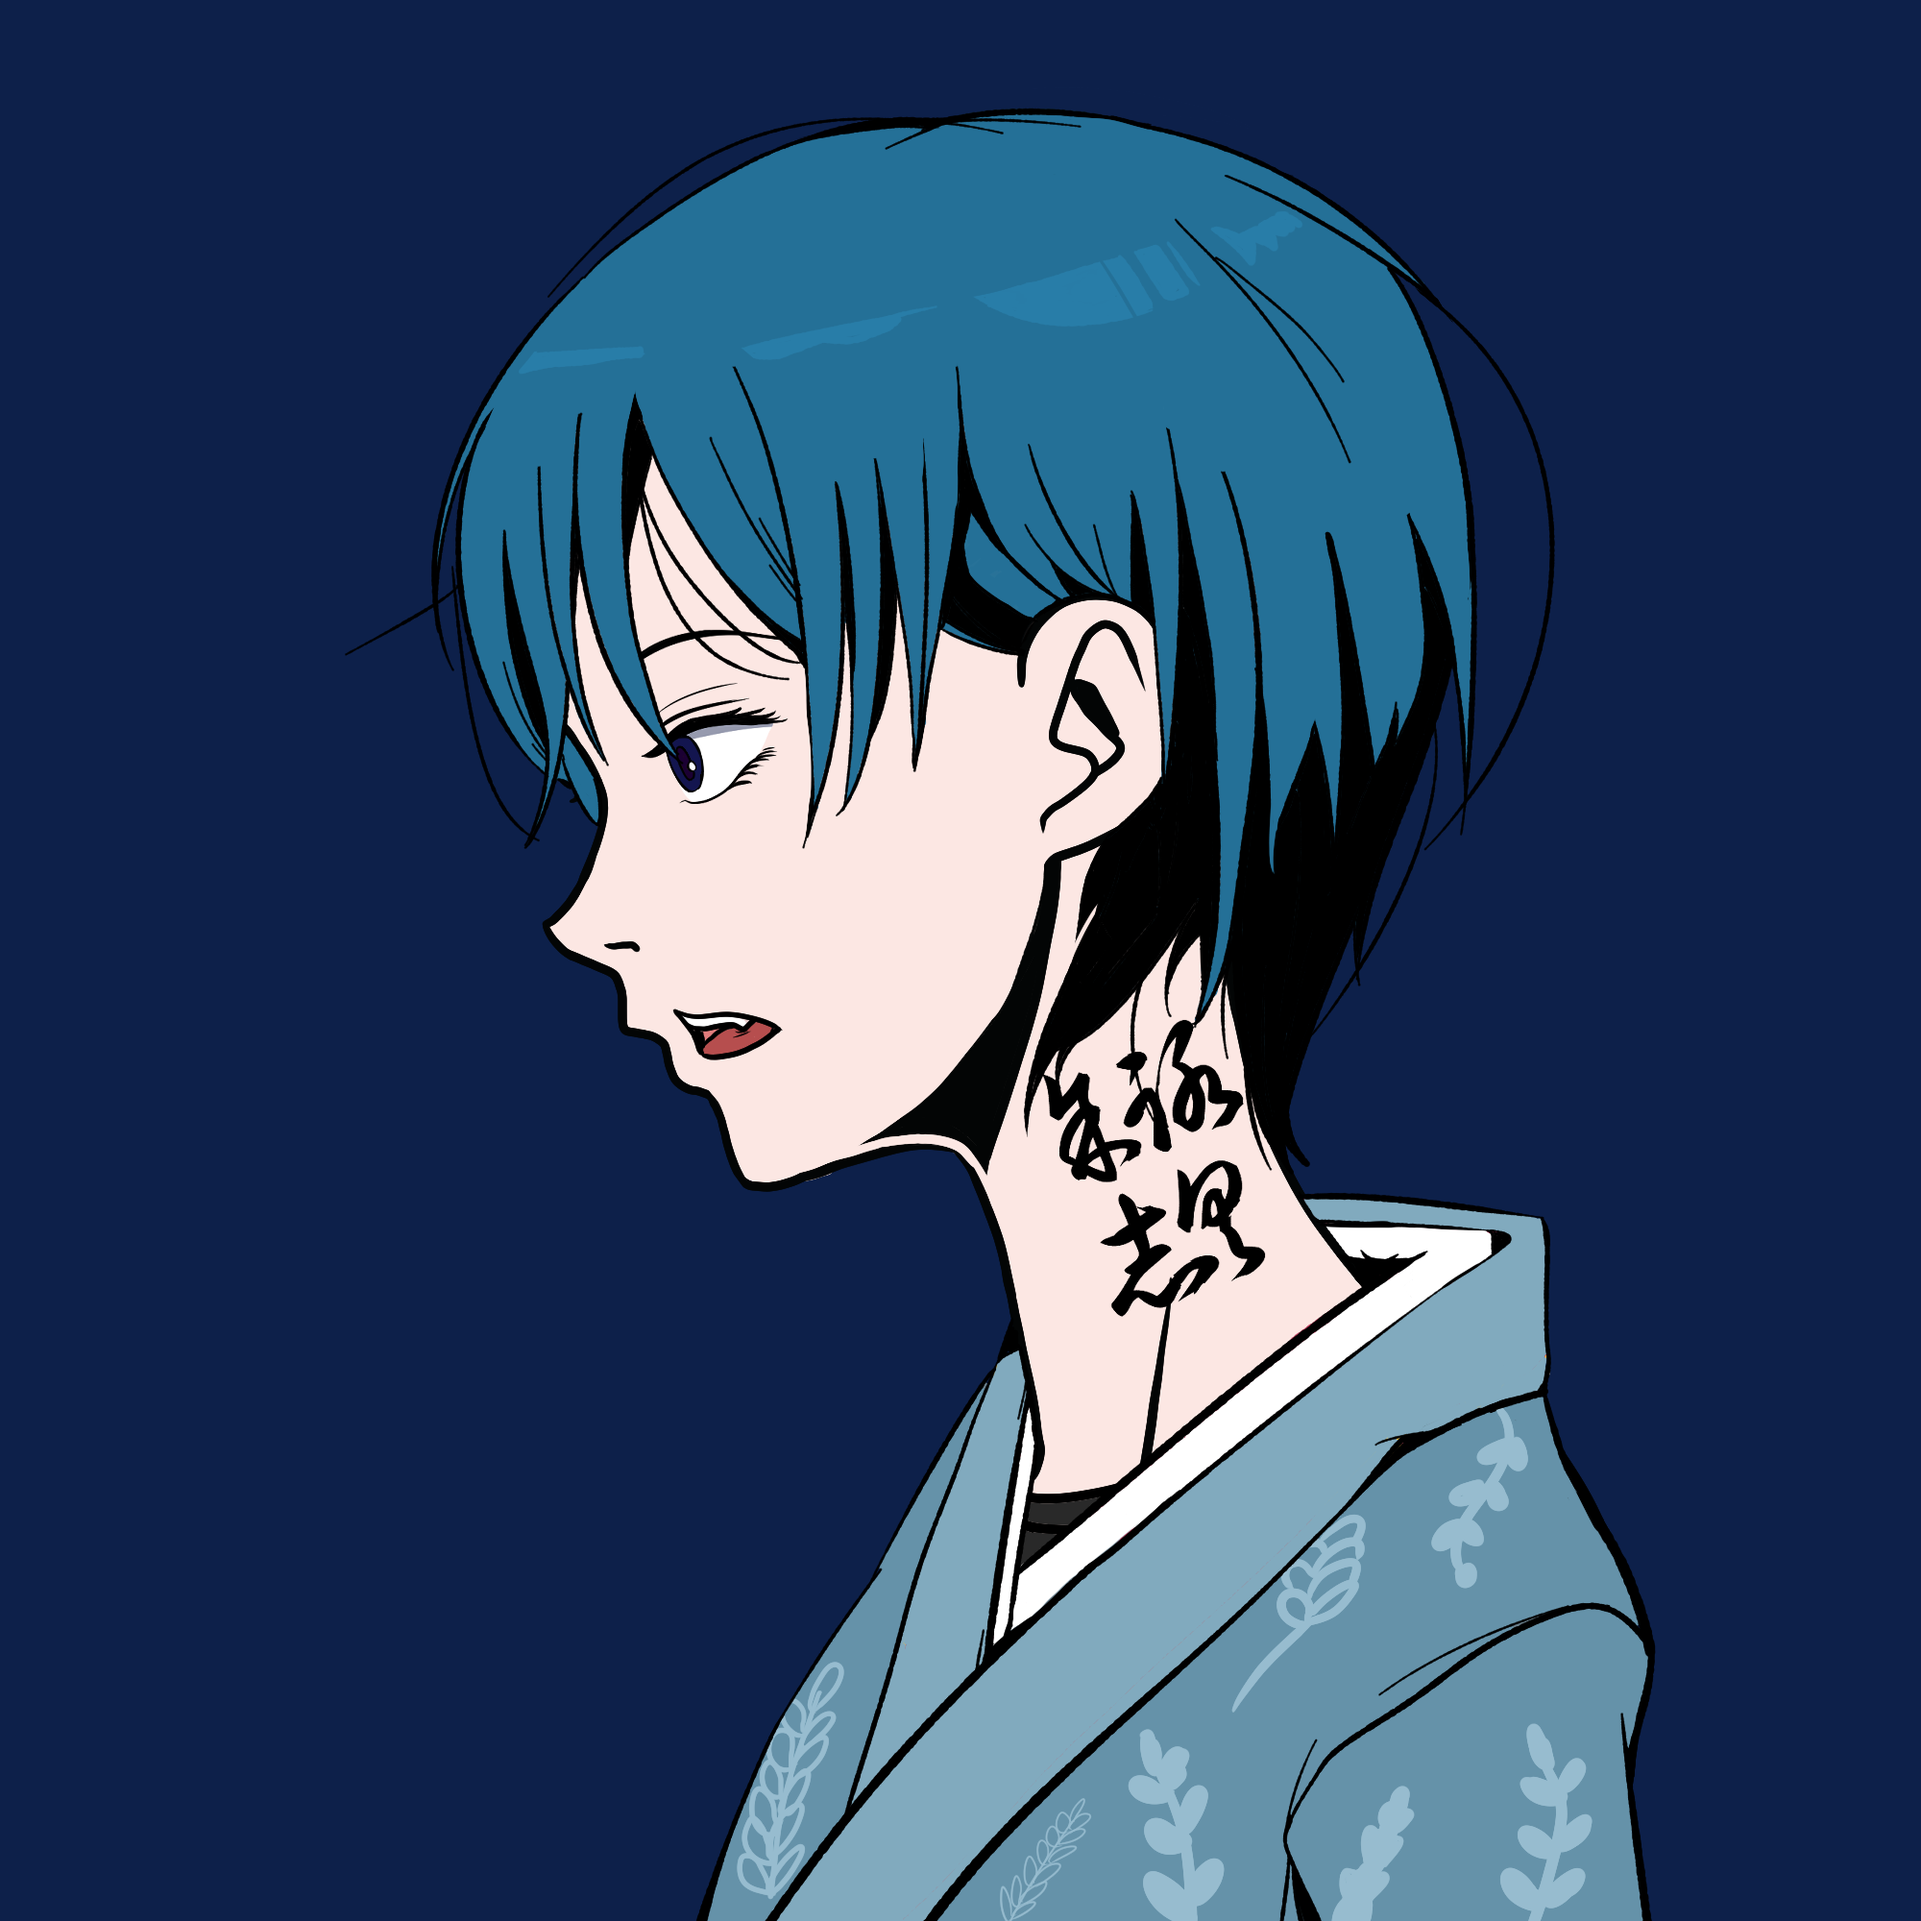
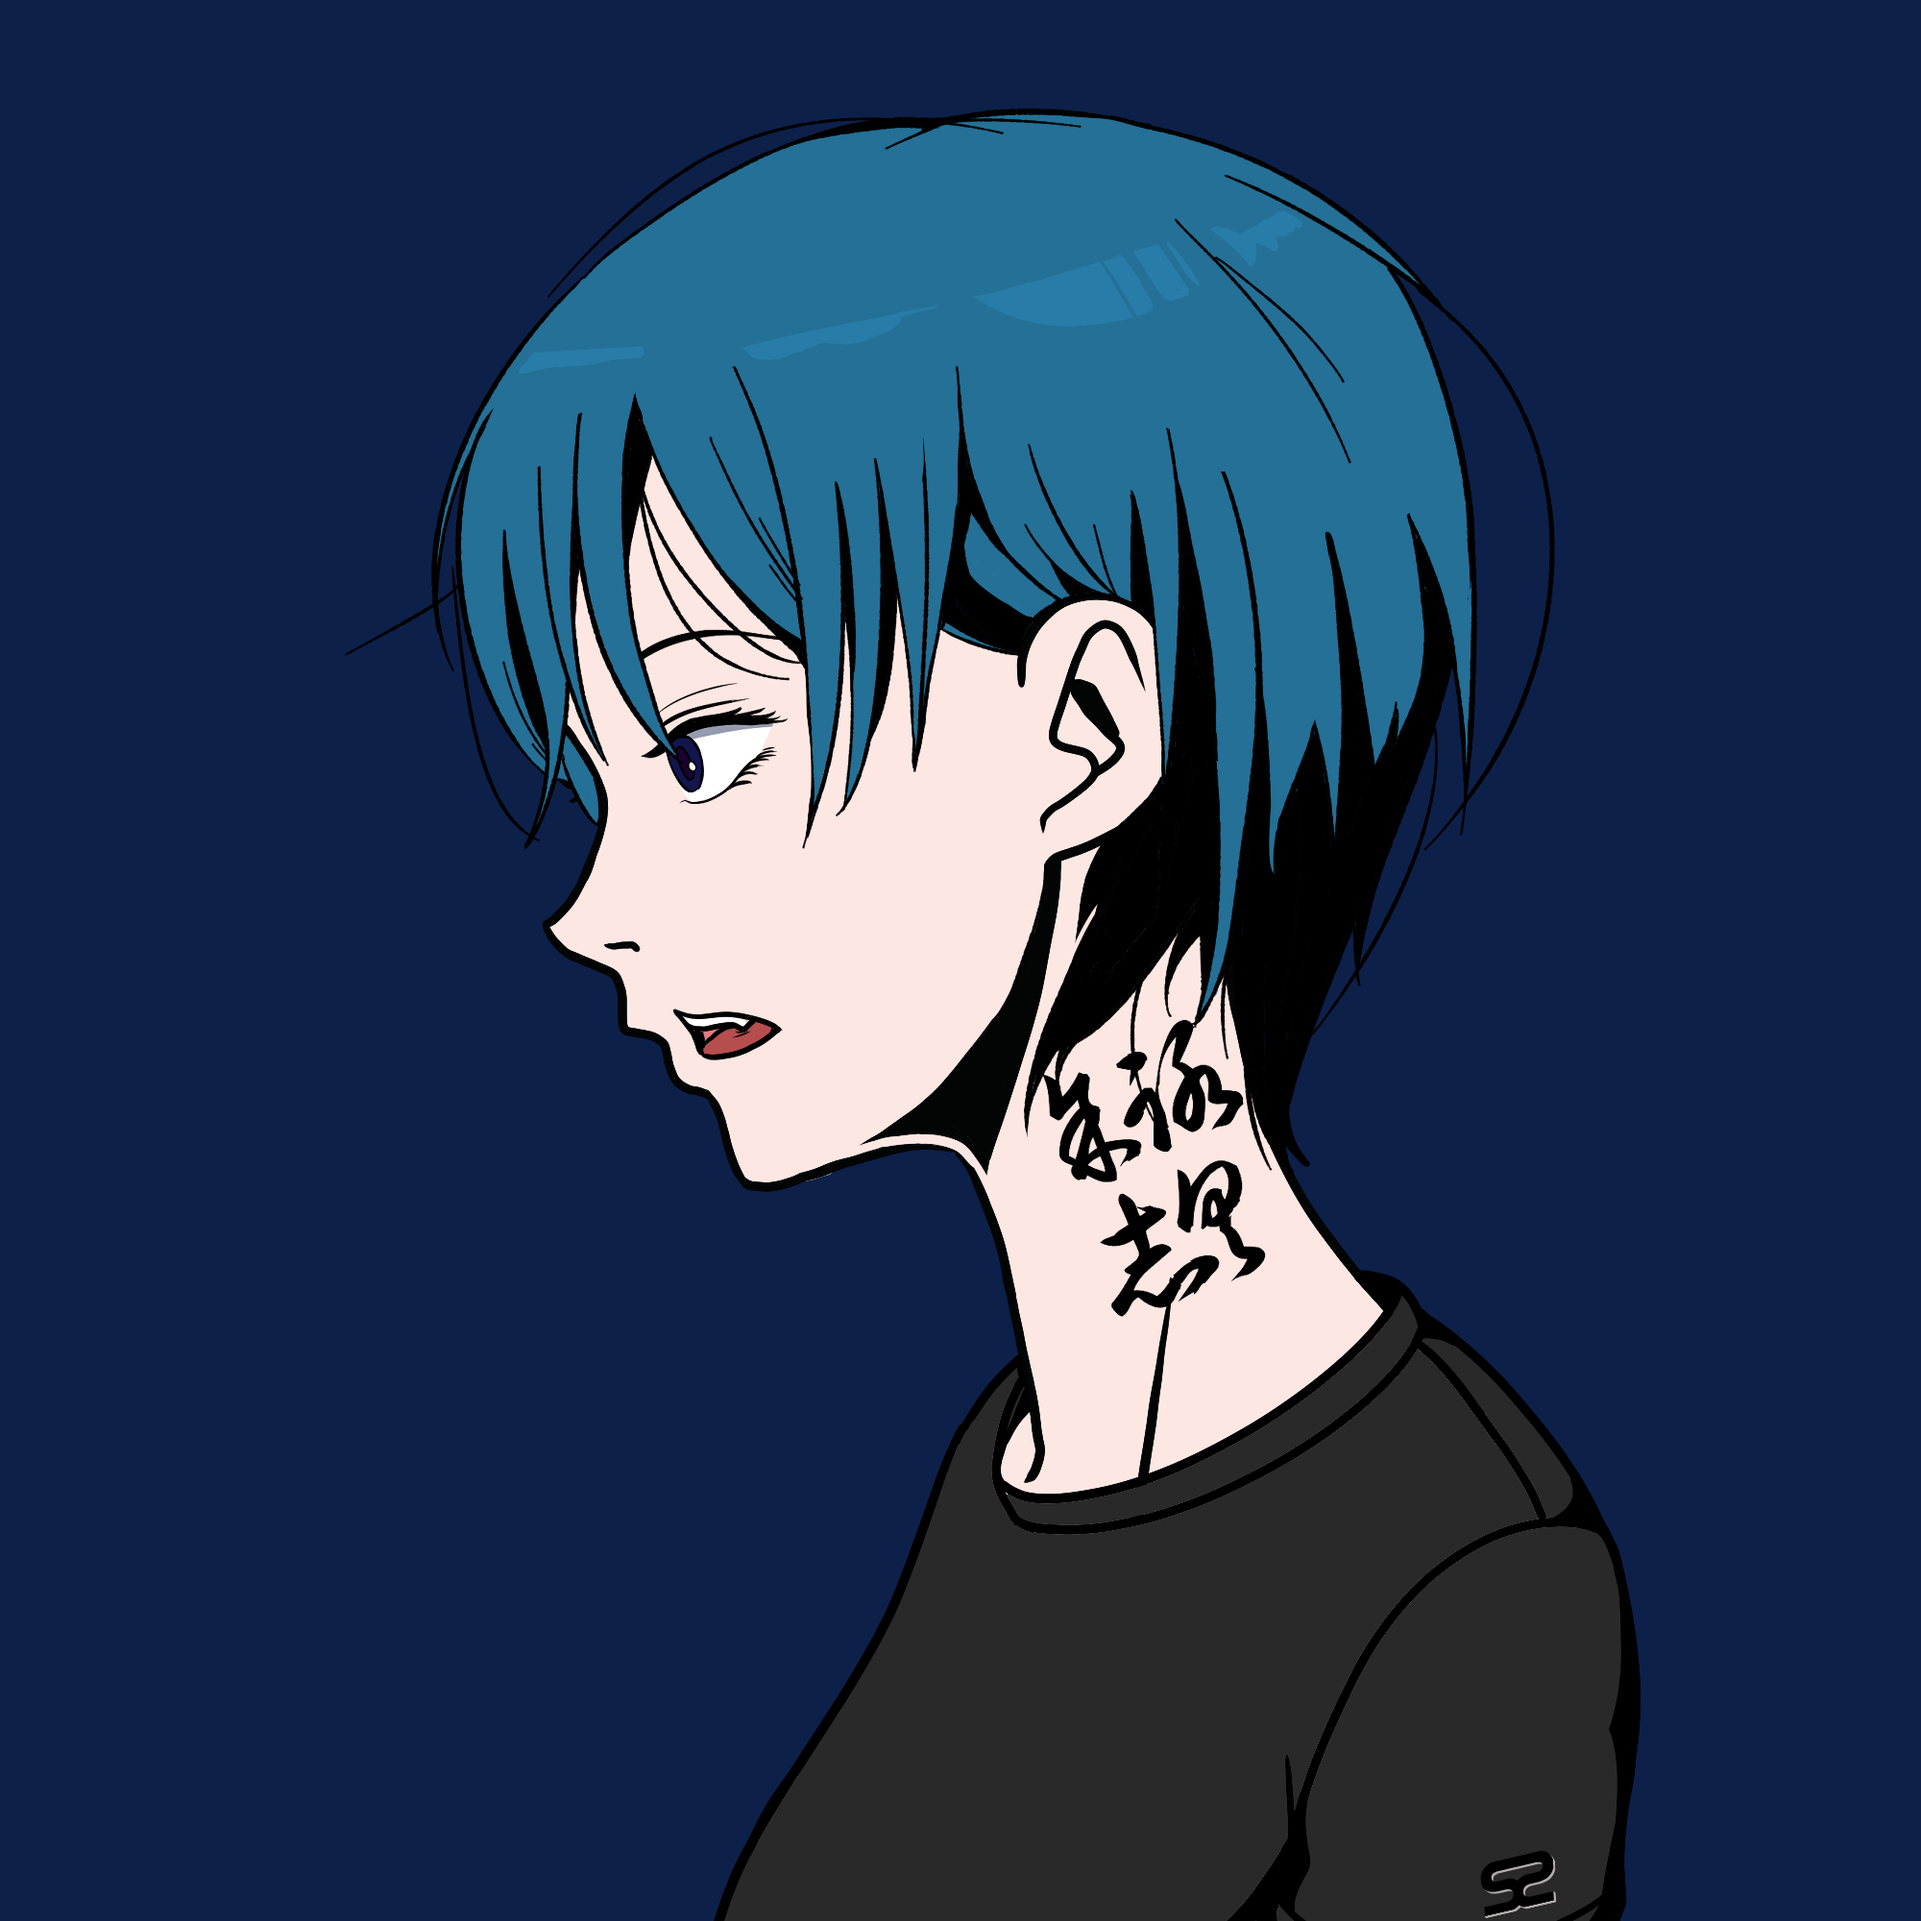
着せかえサイトデプロイ

Changed region(s): [[0.341, 0.62, 0.868, 1.0]]

diff --git a/app.rb b/app.rb
@@ -47,18 +47,17 @@ get '/raw_images/:num' do
   end
 end
 
-
-# get '/dressup' do
-#   @signrand = 'Ethereum Signed Message:'+rand(10000).to_s
-#   session[:rand] = @signrand
-#   @title = "SENZAI-dressup-"
-#   @clothesPath = ['assets/clothesFemale/', 'assets/clothesMale/']
-#   @clothesNames = []
-#   for i in 0..1
-#     @clothesNames.push(allNamesInFolder("public/"+@clothesPath[i]))
-#   end
-#   erb :dressup
-# end
+get '/dressup' do
+  @signrand = 'Ethereum Signed Message:'+rand(10000).to_s
+  session[:rand] = @signrand
+  @title = "SENZAI-dressup-"
+  @clothesPath = ['assets/clothesFemale/', 'assets/clothesMale/']
+  @clothesNames = []
+  for i in 0..1
+    @clothesNames.push(allNamesInFolder("public/"+@clothesPath[i]))
+  end
+  erb :dressup
+end
 
 post '/dress' do
   owned = ownerValidate(session[:rand], params[:target], params[:sign])
